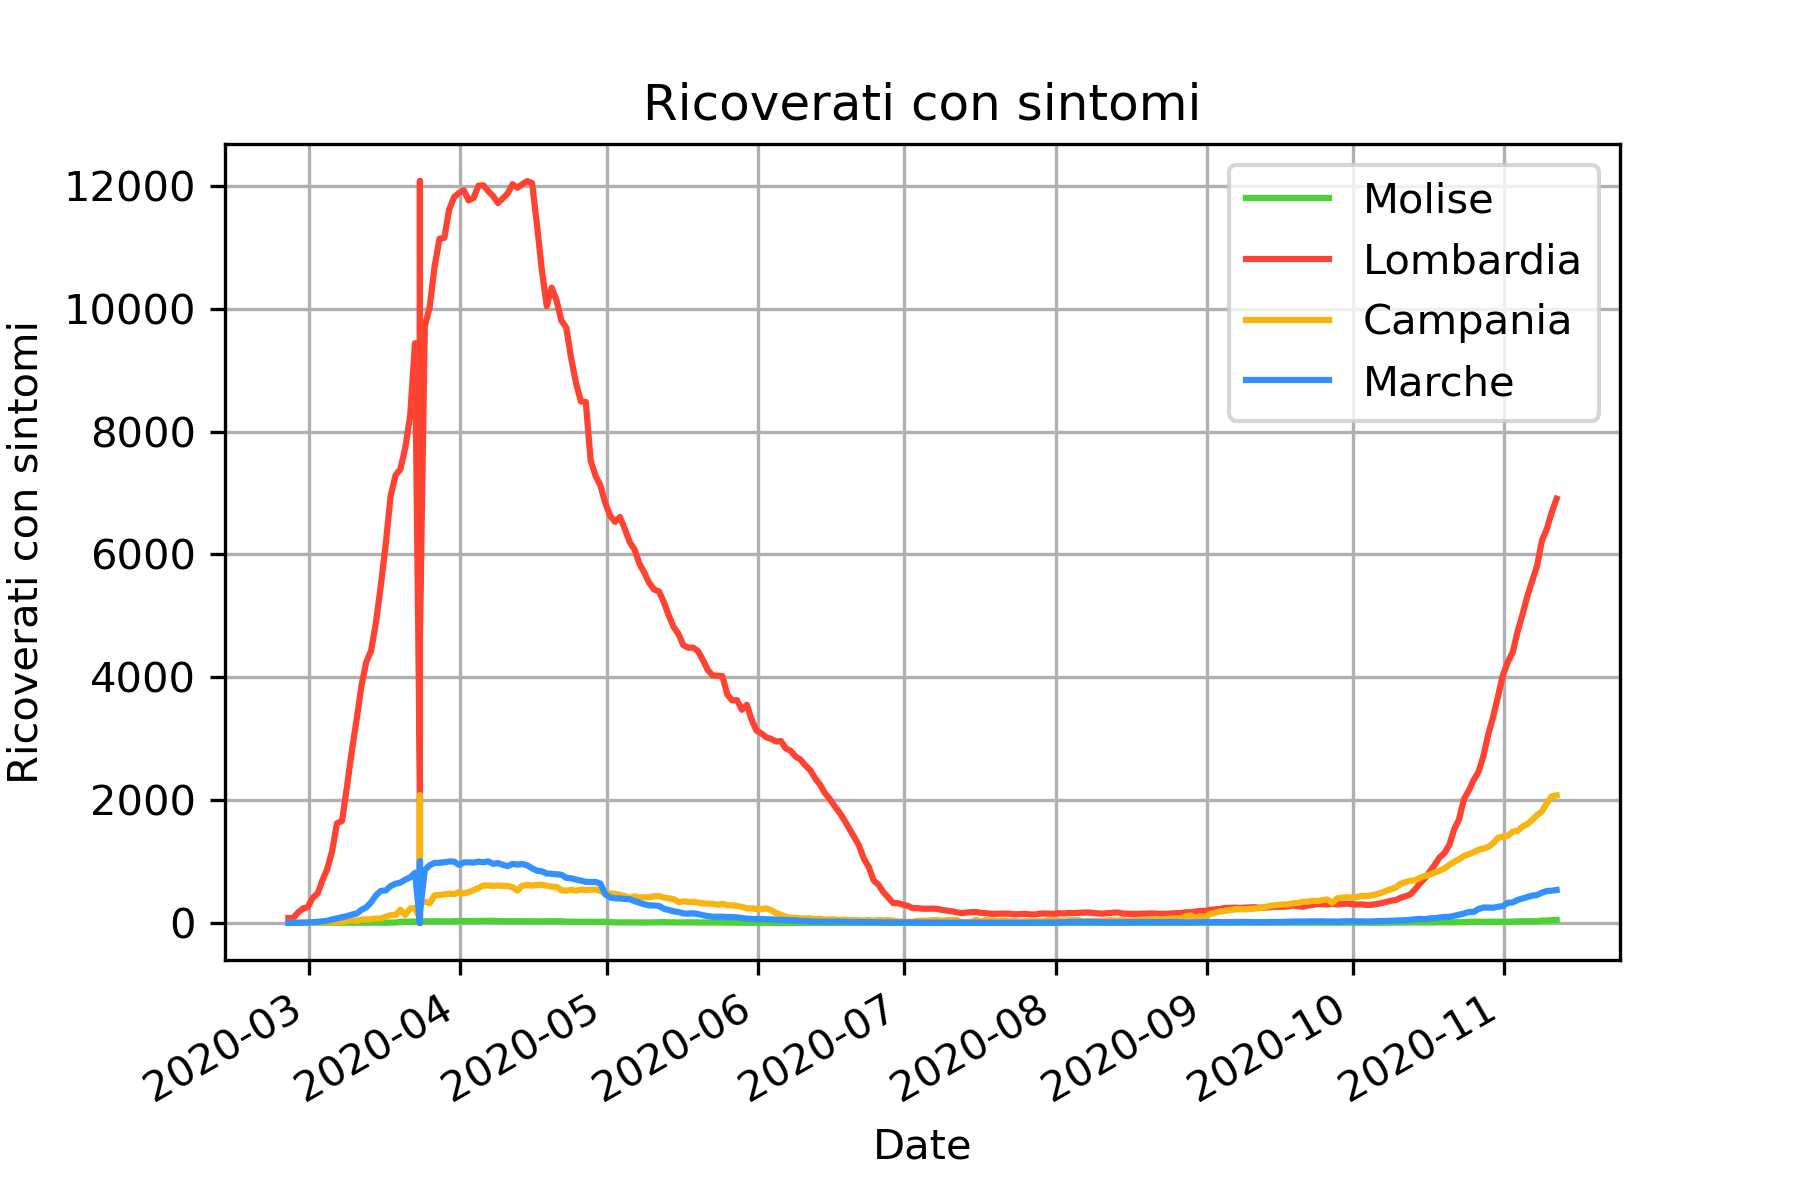
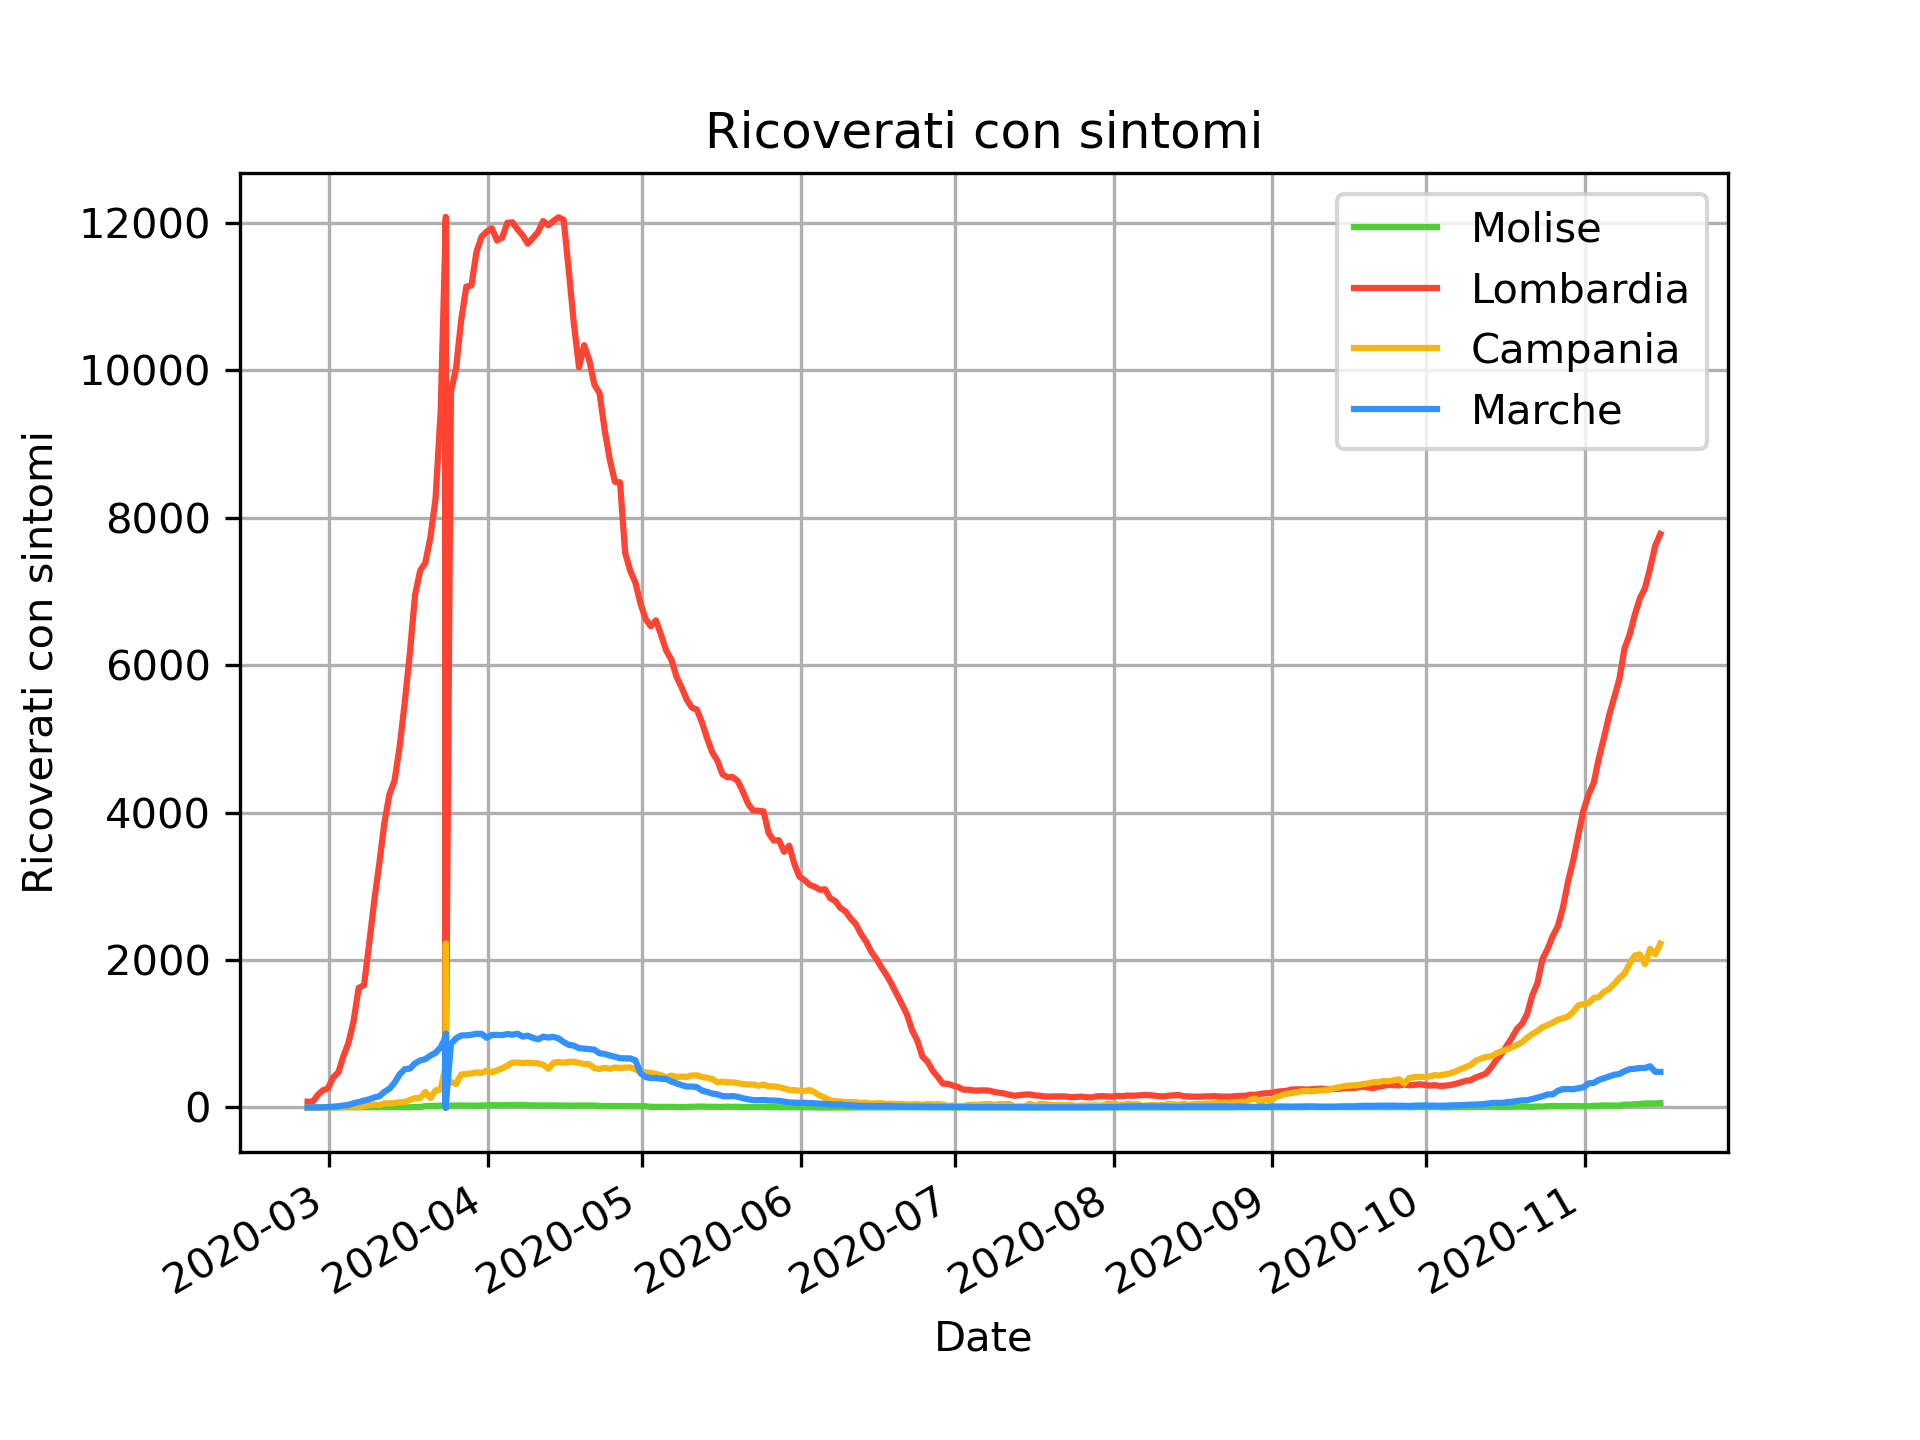
Update 15-11-20

diff --git a/covidAnalysis.py b/covidAnalysis.py
@@ -88,7 +88,7 @@ def compute_ti_oppupation_per_regions(df, save_image=False):
     plt.legend()
     
     if save_image:
-        plt.savefig('ti_per_regioni.png', dpi=300)
+        plt.savefig('./docs/ti_per_regioni.png', dpi=300)
     
     plt.show()
     
@@ -121,7 +121,7 @@ def compute_rec_with_symptoms(df, save_image=False):
     plt.legend()
     
     if save_image:
-        plt.savefig('ricoverati_con_sintomi.png', dpi=300)
+        plt.savefig('./docs/ricoverati_con_sintomi.png', dpi=300)
     
     plt.show()
     
@@ -156,7 +156,7 @@ def compute_daily_cases(df, save_image=False):
     plt.legend()
     
     if save_image:
-        plt.savefig('positivi_per_regioni.png', dpi=300)
+        plt.savefig('./docs/positivi_per_regioni.png', dpi=300)
     
     plt.show()
   

diff --git a/main.py b/main.py
@@ -8,6 +8,6 @@ import covidAnalysis as covid
   
 # Create dataframe, extract some region data, plot all available info
 df = covid.extract_regions_data()
-covid.compute_ti_oppupation_per_regions(df)
-covid.compute_daily_cases(df)
-covid.compute_rec_with_symptoms(df)
+covid.compute_ti_oppupation_per_regions(df, True)
+covid.compute_daily_cases(df, True)
+covid.compute_rec_with_symptoms(df, True)
